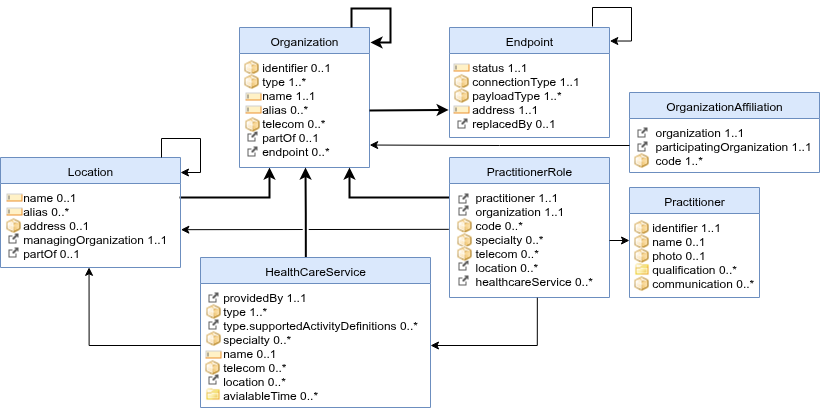
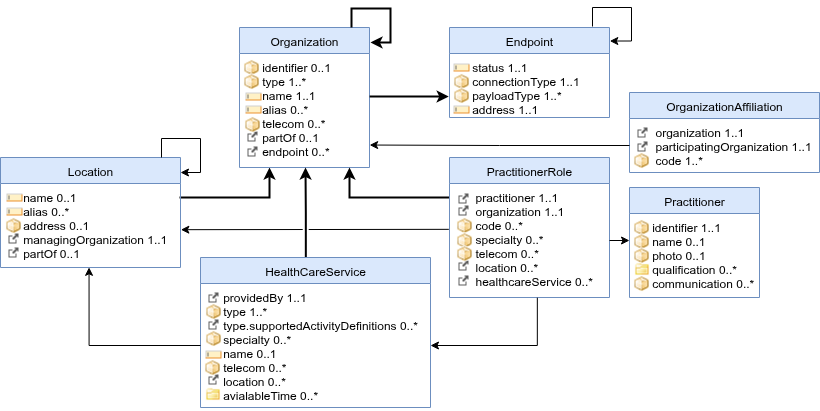
feedback, part 2

diff --git a/input/pagecontent/care-services.md b/input/pagecontent/care-services.md
@@ -68,7 +68,7 @@ Besides using the 'history-type' operation, the Update Client should be able to 
 
 During consolidation, multiple Administration Directories may have overlapping or conflicting entities. An Update Client MUST only use data from authoritative data sources ([GF-Adressering, ADR#186](https://github.com/minvws/generiekefuncties-adressering/issues/186)) and MUST obey these guidelines:
 - The LRZa Administration Directory is authoritative for Organization instances with `identifier` of system `http://fhir.nl/fhir/NamingSystem/ura` (URA), its `name` and `active`-status. When the healthcare provider's Administration Directory also provides a `name` or `active` value (for an Organization-instance with a URA-identifier), these values should be ignored. Other elements from the healthcare provider's Administration Directory should be added. This way, a healthcare provider can add an `alias` or `endpoint` using it's own Administration Directory.
-- The LRZa Administration Directory contains a list of Organization resources (identified by a URA) and Endpoint resources referencing the Administration Directory endpoint (URL). An Administration Directory is only authoritative for the healthcare providers that registered this Administration Directory endpoint (URL) at the LRZa. Information about other healthcare providers MUST be disregarded.
+- The LRZa Administration Directory contains a list of Organization resources (identified by a URA) and Endpoint resources referencing the Administration Directory endpoint (URL). An Administration Directory is only authoritative for the healthcare providers that registered this Administration Directory endpoint (URL) at the LRZa. Information about other healthcare providers MUST be disregarded. For example, if the LRZa Administration Directory has 20.000 Organization-records, of which 2 Organizations (identified by 'URA-1' and 'URA-2') use the same Administration Directory endpoint ('https://admindirectory.example.com/'). This Endpoint MAY contain other resources (e.g. Organization/Location/HealthcareService-records), not authored by URA-1 and URA-2. These other resources MUST be disregarded by update clients as this Administration Directory is not the authoritative source.
 - All HealthcareServices, Locations, PractitionerRoles and Organization-entities of a single healthcare provider MUST (indirectly) link to a top-level Organization-instance with a URA-identifier:
   - All HealthcareService, Location, PractitionerRole entities MUST be directly linked to an Organization-instance (could be 'sub-Organization' like a department).
   - All Organization-instances MUST either link to a parent-Organization or have a URA-identifier (being a top-level Organization instance)
@@ -90,6 +90,9 @@ The Query Client is used to search and retrieve information from the Query Direc
 
 ### Data models
 Within GF Addressing, profiles are used to validate data. They are based on both mCSD-profiles and nl-core-profiles (TODO: use Nictiz nl-core package as soon as dependency-bug is fixed)([GF-Adressering, ADR#188](https://github.com/minvws/generiekefuncties-adressering/issues/188)). Ideally, these profiles are merged in the nl-core-profiles in the future. 
+An overview of the *most common* elements and relations between data models:
+
+<img src="careservices-datamodel.png" width="100%" style="float: none"/>
 
 A brief description of the data models and their profile for this guide:
 
@@ -98,14 +101,14 @@ Organizations are “umbrella” entities; these may be considered the administr
 The [NL-GF-Organization profile](./StructureDefinition-nl-gf-organization.html) contains no extra constraints on top of mCSD & nl-core profiles. 
 
 #### Endpoint
-An Organization may be reachable for electronic data exchange through electronic Endpoint(s). An Endpoint may be a FHIR server, an DICOM web services, or some other mechanism. If an Organization does not have an Endpoint, it may still be reachable via an Endpoint at its parent Organization or an affiliated Organization.
+An Organization may be reachable for electronic data exchange through electronic Endpoint(s). An Endpoint may be a FHIR server, an DICOM web services, or some other mechanism. If an Organization does not have an Endpoint, it may still be reachable via an Endpoint at its parent Organization.
 
-The [NL-GF-Endpoints profile](./StructureDefinition-nl-gf-endpoint.html) has an extra value set constraint on `.payloadType` ([GF-Adressering, ADR-8](https://github.com/minvws/generiekefuncties-adressering/issues/156)) and an additional extension `replacedBy`. This can be used to point to a new endpoint if the old one has changed.
+The [NL-GF-Endpoints profile](./StructureDefinition-nl-gf-endpoint.html) has an extra value set constraint on `.payloadType` ([GF-Adressering, ADR-8](https://github.com/minvws/generiekefuncties-adressering/issues/156)).
 
 
 > ##### Changing endpoints and the continued integrity of references
 > Healthcare records (e.g. conditions, observations, or procedures) will contain links (references) to addressable entities. Some entities may be referenced by an *identifier* (e.g. a URA or DEZI-number), but most references will use either a local *ID* (e.g. Patient/880e50a3) or URL (https://somecareprovider.nl/fhirR4/Patient/880e50a3). The (local) IDs and (remote) URLs are definitive and widely supported in the FHIR ecosystem. Identifiers may be harder to resolve, may expose sensitive data (like a Citizen number; Dutch BSN) and can be ambiguous (multiple instances carrying the same identifier).
-IDs and URLs are easy in use and (should be) resolvable, but they may break over time which leads to broken references and unresolvable medical records. Try to use endpoints that can remain stable for long periods (5-10 years) and use universally unique IDs (UUIDs) instead of e.g. incrementing numeric values. If the Endpoint.address (the base part of URLs) must be changed, use the `status` and `replacedBy` extension to properly redirect and fix broken links, ensuring continued integrity of references. Don't delete Endpoint-instances.
+IDs and URLs are easy in use and (should be) resolvable, but they may break over time which leads to broken references and unresolvable medical records. Try to use endpoints that can remain stable for long periods (5-10 years) and use universally unique IDs (UUIDs) instead of e.g. incrementing numeric values. 
 >
 >For example, care provider 'CP1' uses an EHR from software vendor 'SV1'. This vendor SV1 uses endpoint-URL 'https://sv1/fhirR4' for every customer (care provider). Now if CP1 wants to switch to a new vendor, this endpoint-URL may risk lots of broken references in many EHR-systems. A better option would be URL 'https://sv1/**cp1**/fhirR4' where a change can be applied to all references in a system OR URL 'https://cp1/fhirR4' that may prevent a change altogether (until FHIR R4 is outdated...).
 
@@ -135,9 +138,7 @@ The [NL-GF-Practitioner profile](./StructureDefinition-nl-gf-practitioner.html):
 OrganizationAffiliation resources are used to represent relationships between organizations, such as a software vendor managing the Endpoint that is used by a care provider. It could also be used the represent multiple care providers working together under some agreement (e.g. in a region).
 The [NL-GF-OrganizationAffiliation profile](./StructureDefinition-nl-gf-organizationaffiliation.html) has no extra constraints on top of mCSD & nl-core profiles.  
 
-An overview of the *most common* elements and relations between data models:
 
-<img src="careservices-datamodel.png" width="100%" style="float: none"/>
 
 
 ### Security
@@ -178,7 +179,7 @@ Currently, two types of Administration Directories are supported; LRZa as 'Root 
 - [BIG-register](https://www.bigregister.nl/) is the authoritative source for (a part of the) Physicians/Practitioners and their qualifications.
 - Medmij has a register (OCL) that lists (qualified) Endpoints for certain data exchanges. Registers like the Medmij-OCL may form the authoritative source for element Endpoint.payloadType.
 
-These types of Administration Directories should be supported in the near future.
+These sources contain valuable information and may be added/integrated in the future.
 
 #### Practitioner resource
 
@@ -187,7 +188,3 @@ Practitioner instances may contain private data (e.g. the name of a physician) a
 #### OrganizationAffiliation resource
 
 The OrganizationAffiliation resource may be added in the future to publish relationships between organizations. ([GF-Adressering, ADR#169](https://github.com/minvws/generiekefuncties-adressering/issues/169))
-
-#### Using HCIM/NL-CORE profiles and valuesets
-
-Profiles and Valuesets in this IG should re-use the Dutch `nictiz.fhir.nl.r4.nl-core` package, but due to a software issue, it is currently not possible. A fix is on its way.
